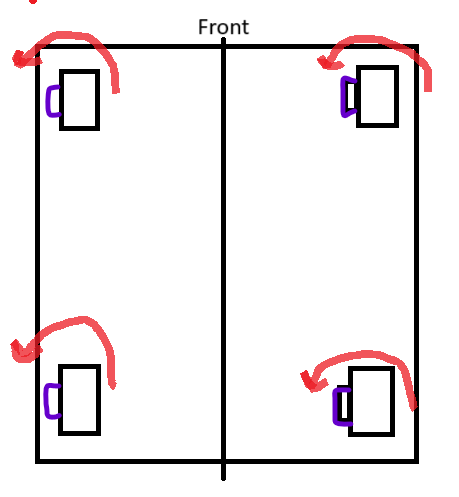
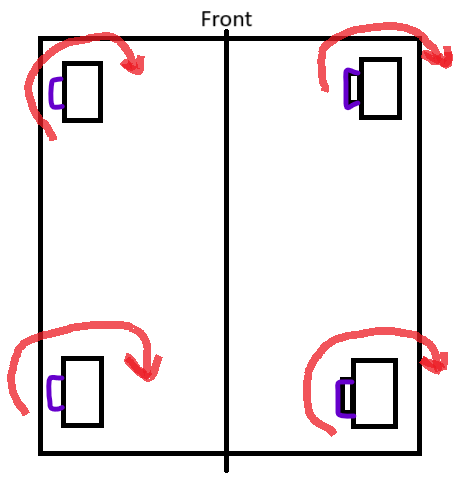
GITBOOK-132: No subject

Changed region(s): [[0.0, 0.0, 0.976, 0.9736], [0.061, 0.0, 0.0915, 0.0304]]

diff --git a/bringing-up-swerve/check-your-motors.md b/bringing-up-swerve/check-your-motors.md
@@ -8,7 +8,7 @@ I strongly suggest you find the information from the [getting-to-know-your-robot
 
 ## Motors should spin counter clockwise positive
 
-<figure><img src="../.gitbook/assets/image (1).png" alt=""><figcaption><p>Motors with purple bevels</p></figcaption></figure>
+<figure><img src="../.gitbook/assets/image (1) (1).png" alt=""><figcaption><p>Motors with purple bevels</p></figcaption></figure>
 
 When you spin your motor while the robot is disabled you will notice `Motor[...] Raw Angle Encoder` (angle/steering/azimuth relative encoder) and `Motor[...] Raw Absolute Encoder` (absolute encoder) . Both of these should increase while the motor is spun counter clockwise. For more information see here.
 

diff --git a/configuring-yagsl/when-to-invert.md b/configuring-yagsl/when-to-invert.md
@@ -16,7 +16,7 @@ When you spin your motor counterclockwise the value in Shuffleboard/NetworkTable
 
 ## Spin your module counterclockwise
 
-<figure><img src="../.gitbook/assets/image (1).png" alt=""><figcaption><p>Purple shows the way your bevels should be facing</p></figcaption></figure>
+<figure><img src="../.gitbook/assets/image.png" alt=""><figcaption><p>Purple shows the way your bevels should be facing (photo by Team 2445)</p></figcaption></figure>
 
 The swerve drive should be on it's side or otherwise lifted. Your swerve module bevels must be facing the left like shown. To rotate the swerve modules they must be rotated counterclockwise like shown.
 

diff --git a/devices/gyroscope/navx.md b/devices/gyroscope/navx.md
@@ -152,7 +152,7 @@ I2C communication on the MXP is supported however this is known to cause permane
 
 ## NavX Micro
 
-<figure><img src="../../.gitbook/assets/image (1) (1) (1) (1).png" alt=""><figcaption><p>NavX micro from andymark</p></figcaption></figure>
+<figure><img src="../../.gitbook/assets/image (1) (1) (1) (1) (1).png" alt=""><figcaption><p>NavX micro from andymark</p></figcaption></figure>
 
 If you are using the NavX micro please select the type of `navx_usb` to indicate you are communicating over serial via the USB or else the gyrscope will not work with YAGSL!
 

diff --git a/analytics-and-debugging/frc-web-components.md b/analytics-and-debugging/frc-web-components.md
@@ -21,7 +21,7 @@ To download and install this please choose the correct file and run it from this
 
 {% embed url="https://docs.wpilib.org/en/stable/docs/networking/networking-introduction/ip-configurations.html#te-am-ip-notation" %}
 
-<figure><img src="../.gitbook/assets/image (1) (1) (1).png" alt=""><figcaption><p>Dashboard settings for FRC Web Components.</p></figcaption></figure>
+<figure><img src="../.gitbook/assets/image (1) (1) (1) (1).png" alt=""><figcaption><p>Dashboard settings for FRC Web Components.</p></figcaption></figure>
 
 5. Open the widget menu.
 

diff --git a/devices/gyroscope/adis16448.md b/devices/gyroscope/adis16448.md
@@ -16,7 +16,7 @@ WPILib documentation
 
 
 
-<figure><img src="../../.gitbook/assets/image (1) (1).png" alt=""><figcaption></figcaption></figure>
+<figure><img src="../../.gitbook/assets/image (1) (1) (1).png" alt=""><figcaption></figcaption></figure>
 
 The ADIS16448 is a 3-axis gyroscope meaning it must be parallel to the earth for it to work!
 
